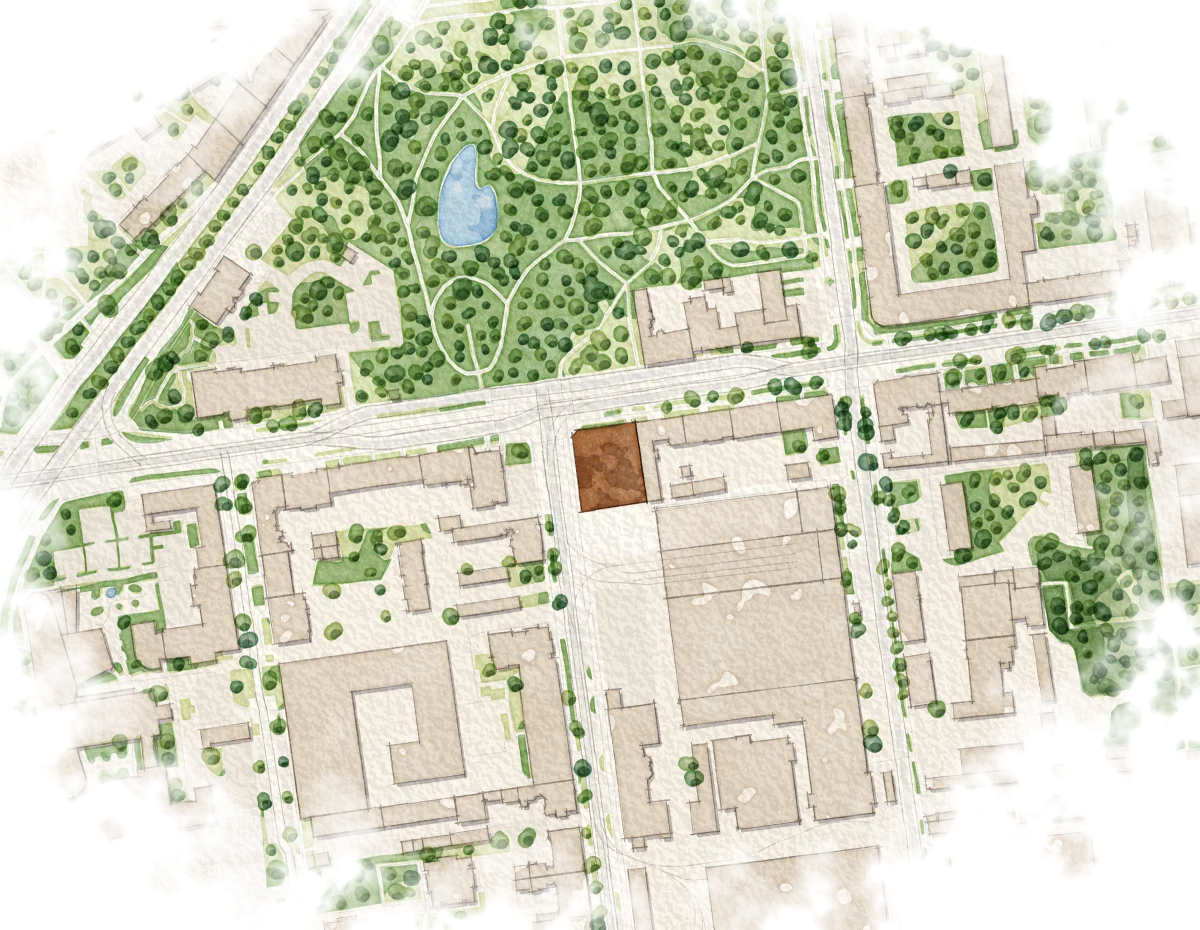
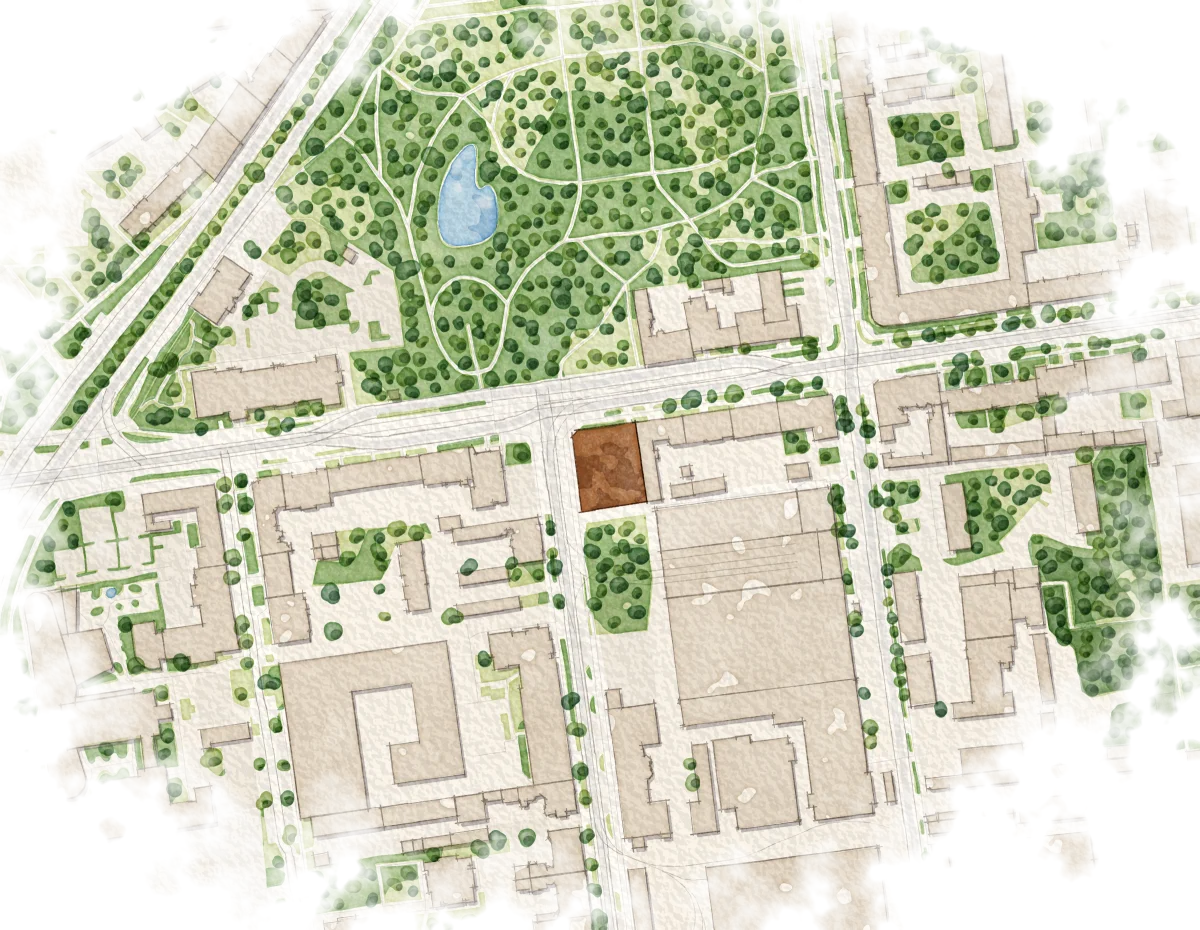
Mapa: zieleń z drzewami na południe od N75 (#109)
Claude-Session: https://claude.ai/code/session_01JqTzECbEDLjSdFDYMQNNHw

diff --git a/index.html b/index.html
@@ -18,7 +18,7 @@
   <link href="https://fonts.googleapis.com/css2?family=Jost:ital,wght@0,300..600;1,300..500&family=Nunito+Sans:ital,opsz,wght@0,6..12,300..700;1,6..12,300..500&display=swap" rel="stylesheet">
   <link rel="preload" as="image" href="assets/img/okolica-lotnicze.webp" imagesrcset="assets/img/okolica-lotnicze-1600.webp 1600w, assets/img/okolica-lotnicze.webp 3200w" imagesizes="100vw">
   <link rel="stylesheet" href="https://unpkg.com/leaflet@1.9.4/dist/leaflet.css" crossorigin="">
-  <link rel="stylesheet" href="assets/css/style.css?v=1793986580">
+  <link rel="stylesheet" href="assets/css/style.css?v=1793986717">
   <script>document.documentElement.classList.add('js');
   // Futura / Avenir Next tylko na Apple: gdy ich brak, dostrajamy darmowe zamienniki (Jost, Nunito Sans)
   (function(){try{var c=document.createElement('canvas').getContext('2d'),t='MWNmwqr075 Łódź';function w(f){c.font='72px '+f;return c.measureText(t).width}
@@ -640,12 +640,12 @@
 </div>
 
 <script src="https://unpkg.com/leaflet@1.9.4/dist/leaflet.js" crossorigin=""></script>
-<script src="assets/js/intro.js?v=1793986580"></script>
-<script src="assets/js/extras.js?v=1793986580"></script>
-<script src="assets/js/units.js?v=1793986580"></script>
-<script src="assets/js/dziennik.js?v=1793986580"></script>
-<script src="assets/js/plan.js?v=1793986580"></script>
-<script src="assets/js/dollhouse.js?v=1793986580" defer></script>
-<script src="assets/js/main.js?v=1793986580"></script>
+<script src="assets/js/intro.js?v=1793986717"></script>
+<script src="assets/js/extras.js?v=1793986717"></script>
+<script src="assets/js/units.js?v=1793986717"></script>
+<script src="assets/js/dziennik.js?v=1793986717"></script>
+<script src="assets/js/plan.js?v=1793986717"></script>
+<script src="assets/js/dollhouse.js?v=1793986717" defer></script>
+<script src="assets/js/main.js?v=1793986717"></script>
 </body>
 </html>

diff --git a/mieszkanie.html b/mieszkanie.html
@@ -17,7 +17,7 @@
   <!-- Docelowo: Futura PT i Avenir Next z licencji (np. Adobe Fonts). Jost i Nunito Sans to darmowe zamienniki na urządzeniach bez tych krojów. -->
   <link href="https://fonts.googleapis.com/css2?family=Jost:ital,wght@0,300..600;1,300..500&family=Nunito+Sans:ital,opsz,wght@0,6..12,300..700;1,6..12,300..500&display=swap" rel="stylesheet">
   
-  <link rel="stylesheet" href="assets/css/style.css?v=1793986580">
+  <link rel="stylesheet" href="assets/css/style.css?v=1793986717">
   <script>document.documentElement.classList.add('js');
   // Futura / Avenir Next tylko na Apple: gdy ich brak, dostrajamy darmowe zamienniki (Jost, Nunito Sans)
   (function(){try{var c=document.createElement('canvas').getContext('2d'),t='MWNmwqr075 Łódź';function w(f){c.font='72px '+f;return c.measureText(t).width}
@@ -101,11 +101,11 @@
   <button class="lb-close" aria-label="Zamknij"><svg viewBox="0 0 24 24"><path d="M6 6l12 12M18 6L6 18"/></svg></button>
 </div>
 
-<script src="assets/js/extras.js?v=1793986580"></script>
-<script src="assets/js/units.js?v=1793986580"></script>
-<script src="assets/js/plan.js?v=1793986580"></script>
-<script src="assets/js/dollhouse.js?v=1793986580" defer></script>
-<script src="assets/js/unit.js?v=1793986580"></script>
-<script src="assets/js/page.js?v=1793986580"></script>
+<script src="assets/js/extras.js?v=1793986717"></script>
+<script src="assets/js/units.js?v=1793986717"></script>
+<script src="assets/js/plan.js?v=1793986717"></script>
+<script src="assets/js/dollhouse.js?v=1793986717" defer></script>
+<script src="assets/js/unit.js?v=1793986717"></script>
+<script src="assets/js/page.js?v=1793986717"></script>
 </body>
 </html>

diff --git a/porownaj.html b/porownaj.html
@@ -18,7 +18,7 @@
   <!-- Docelowo: Futura PT i Avenir Next z licencji (np. Adobe Fonts). Jost i Nunito Sans to darmowe zamienniki na urządzeniach bez tych krojów. -->
   <link href="https://fonts.googleapis.com/css2?family=Jost:ital,wght@0,300..600;1,300..500&family=Nunito+Sans:ital,opsz,wght@0,6..12,300..700;1,6..12,300..500&display=swap" rel="stylesheet">
   
-  <link rel="stylesheet" href="assets/css/style.css?v=1793986580">
+  <link rel="stylesheet" href="assets/css/style.css?v=1793986717">
   <script>document.documentElement.classList.add('js');
   // Futura / Avenir Next tylko na Apple: gdy ich brak, dostrajamy darmowe zamienniki (Jost, Nunito Sans)
   (function(){try{var c=document.createElement('canvas').getContext('2d'),t='MWNmwqr075 Łódź';function w(f){c.font='72px '+f;return c.measureText(t).width}
@@ -109,9 +109,9 @@
   <button class="lb-close" aria-label="Zamknij"><svg viewBox="0 0 24 24"><path d="M6 6l12 12M18 6L6 18"/></svg></button>
 </div>
 
-<script src="assets/js/extras.js?v=1793986580"></script>
-<script src="assets/js/units.js?v=1793986580"></script>
-<script src="assets/js/page.js?v=1793986580"></script>
-<script src="assets/js/porownaj.js?v=1793986580"></script>
+<script src="assets/js/extras.js?v=1793986717"></script>
+<script src="assets/js/units.js?v=1793986717"></script>
+<script src="assets/js/page.js?v=1793986717"></script>
+<script src="assets/js/porownaj.js?v=1793986717"></script>
 </body>
 </html>

diff --git a/assets/js/main.js b/assets/js/main.js
@@ -76,7 +76,7 @@
     // ilustrowana mapa okolicy (akwarela z danych OSM) na wyciszonym podkładzie
     var ART = [[51.77018, 19.47277], [51.77423, 19.48121]];
     mapEl.classList.add('map--art');
-    L.imageOverlay('assets/img/mapa-okolica' + (window.innerWidth < 700 ? '-1200' : '') + '.webp', ART, { className: 'map__art', interactive: false }).addTo(map);
+    L.imageOverlay('assets/img/mapa-okolica' + (window.innerWidth < 700 ? '-1200' : '') + '.webp?v=2', ART, { className: 'map__art', interactive: false }).addTo(map);
     fetch('assets/img/mapa-okolica-opisy.svg').then(function (r) { return r.text(); }).then(function (t) {
       var box = document.createElement('div'); box.innerHTML = t; var sv = box.querySelector('svg');
       L.svgOverlay(sv, ART, { className: 'map__labels', interactive: false }).addTo(map);
@@ -502,7 +502,7 @@
   // miniatura prawdziwego rzutu lokalu (z meblami); dwupoziomowe: obie kondygnacje obok siebie
   function planThumb(u) {
     return u.levels.map(function (l) {
-      return '<img src="assets/img/plany/lokale/' + u.id + '-' + l + '-sm.webp?v=1793986580" alt="Rzut lokalu ' + u.id + (u.levels.length > 1 ? ', piętro ' + l : '') + '" loading="lazy">';
+      return '<img src="assets/img/plany/lokale/' + u.id + '-' + l + '-sm.webp?v=1793986717" alt="Rzut lokalu ' + u.id + (u.levels.length > 1 ? ', piętro ' + l : '') + '" loading="lazy">';
     }).join('');
   }
 

diff --git a/budynek.html b/budynek.html
@@ -17,7 +17,7 @@
   <!-- Docelowo: Futura PT i Avenir Next z licencji (np. Adobe Fonts). Jost i Nunito Sans to darmowe zamienniki na urządzeniach bez tych krojów. -->
   <link href="https://fonts.googleapis.com/css2?family=Jost:ital,wght@0,300..600;1,300..500&family=Nunito+Sans:ital,opsz,wght@0,6..12,300..700;1,6..12,300..500&display=swap" rel="stylesheet">
   
-  <link rel="stylesheet" href="assets/css/style.css?v=1793986580">
+  <link rel="stylesheet" href="assets/css/style.css?v=1793986717">
   <script>document.documentElement.classList.add('js');
   // Futura / Avenir Next tylko na Apple: gdy ich brak, dostrajamy darmowe zamienniki (Jost, Nunito Sans)
   (function(){try{var c=document.createElement('canvas').getContext('2d'),t='MWNmwqr075 Łódź';function w(f){c.font='72px '+f;return c.measureText(t).width}
@@ -164,7 +164,7 @@
   <button class="lb-close" aria-label="Zamknij"><svg viewBox="0 0 24 24"><path d="M6 6l12 12M18 6L6 18"/></svg></button>
 </div>
 
-<script src="assets/js/extras.js?v=1793986580"></script>
-<script src="assets/js/page.js?v=1793986580"></script>
+<script src="assets/js/extras.js?v=1793986717"></script>
+<script src="assets/js/page.js?v=1793986717"></script>
 </body>
 </html>

diff --git a/manifest.html b/manifest.html
@@ -17,7 +17,7 @@
   <!-- Docelowo: Futura PT i Avenir Next z licencji (np. Adobe Fonts). Jost i Nunito Sans to darmowe zamienniki na urządzeniach bez tych krojów. -->
   <link href="https://fonts.googleapis.com/css2?family=Jost:ital,wght@0,300..600;1,300..500&family=Nunito+Sans:ital,opsz,wght@0,6..12,300..700;1,6..12,300..500&display=swap" rel="stylesheet">
   
-  <link rel="stylesheet" href="assets/css/style.css?v=1793986580">
+  <link rel="stylesheet" href="assets/css/style.css?v=1793986717">
   <script>document.documentElement.classList.add('js');
   // Futura / Avenir Next tylko na Apple: gdy ich brak, dostrajamy darmowe zamienniki (Jost, Nunito Sans)
   (function(){try{var c=document.createElement('canvas').getContext('2d'),t='MWNmwqr075 Łódź';function w(f){c.font='72px '+f;return c.measureText(t).width}
@@ -164,7 +164,7 @@
   <button class="lb-close" aria-label="Zamknij"><svg viewBox="0 0 24 24"><path d="M6 6l12 12M18 6L6 18"/></svg></button>
 </div>
 
-<script src="assets/js/extras.js?v=1793986580"></script>
-<script src="assets/js/page.js?v=1793986580"></script>
+<script src="assets/js/extras.js?v=1793986717"></script>
+<script src="assets/js/page.js?v=1793986717"></script>
 </body>
 </html>

diff --git a/polityka-prywatnosci.html b/polityka-prywatnosci.html
@@ -17,7 +17,7 @@
   <!-- Docelowo: Futura PT i Avenir Next z licencji (np. Adobe Fonts). Jost i Nunito Sans to darmowe zamienniki na urządzeniach bez tych krojów. -->
   <link href="https://fonts.googleapis.com/css2?family=Jost:ital,wght@0,300..600;1,300..500&family=Nunito+Sans:ital,opsz,wght@0,6..12,300..700;1,6..12,300..500&display=swap" rel="stylesheet">
   
-  <link rel="stylesheet" href="assets/css/style.css?v=1793986580">
+  <link rel="stylesheet" href="assets/css/style.css?v=1793986717">
   <script>document.documentElement.classList.add('js');
   // Futura / Avenir Next tylko na Apple: gdy ich brak, dostrajamy darmowe zamienniki (Jost, Nunito Sans)
   (function(){try{var c=document.createElement('canvas').getContext('2d'),t='MWNmwqr075 Łódź';function w(f){c.font='72px '+f;return c.measureText(t).width}
@@ -294,7 +294,7 @@
   <button class="lb-close" aria-label="Zamknij"><svg viewBox="0 0 24 24"><path d="M6 6l12 12M18 6L6 18"/></svg></button>
 </div>
 
-<script src="assets/js/extras.js?v=1793986580"></script>
-<script src="assets/js/page.js?v=1793986580"></script>
+<script src="assets/js/extras.js?v=1793986717"></script>
+<script src="assets/js/page.js?v=1793986717"></script>
 </body>
 </html>

diff --git a/assets/js/dollhouse.js b/assets/js/dollhouse.js
@@ -558,7 +558,7 @@
     var load = dlg.querySelector('.dh__load'); load.hidden = false; load.textContent = 'Ładowanie modelu…';
     if (!viewer) { load.textContent = 'Ta przeglądarka nie obsługuje widoku 3D.'; return; }
     viewer.az = -0.62; viewer.el = 1.0; viewer.zoom = 1;
-    fetch(BASE + encodeURIComponent(id) + '.json?v=1793986580').then(function (r) { return r.ok ? r.json() : Promise.reject(); }).then(function (d) {
+    fetch(BASE + encodeURIComponent(id) + '.json?v=1793986717').then(function (r) { return r.ok ? r.json() : Promise.reject(); }).then(function (d) {
       data = d; setLevels(); show(0); load.hidden = true; intro();
     }).catch(function () { load.textContent = 'Model 3D tego lokalu jest w przygotowaniu.'; });
     setTimeout(function () { var x = dlg.querySelector('.dh__x'); if (x) x.focus({ preventScroll: true }); }, 50);

diff --git a/assets/js/porownaj.js b/assets/js/porownaj.js
@@ -14,7 +14,7 @@
   function favs() { return (window.N75Fav ? window.N75Fav.list() : []).filter(function (id) { return byId[id]; }); }
 
   function thumb(u) {
-    return u.levels.map(function (l) { return '<img src="assets/img/plany/lokale/' + u.id + '-' + l + '-sm.webp?v=1793986580" alt="Rzut lokalu ' + u.id + (u.levels.length > 1 ? ', piętro ' + l : '') + '" loading="lazy">'; }).join('');
+    return u.levels.map(function (l) { return '<img src="assets/img/plany/lokale/' + u.id + '-' + l + '-sm.webp?v=1793986717" alt="Rzut lokalu ' + u.id + (u.levels.length > 1 ? ', piętro ' + l : '') + '" loading="lazy">'; }).join('');
   }
   function roomArea(u, re) { return u.roomsList.filter(function (r) { return re.test(r[1]); }).reduce(function (s, r) { return s + r[2]; }, 0); }
 

diff --git a/assets/js/plan.js b/assets/js/plan.js
@@ -3,7 +3,7 @@
 (function () {
   'use strict';
   var NS = 'http://www.w3.org/2000/svg';
-  var W = 1504, H = 1925, V = '?v=1793986580';
+  var W = 1504, H = 1925, V = '?v=1793986717';
 
   function el(tag, attrs, parent) {
     var n = document.createElementNS(NS, tag);
